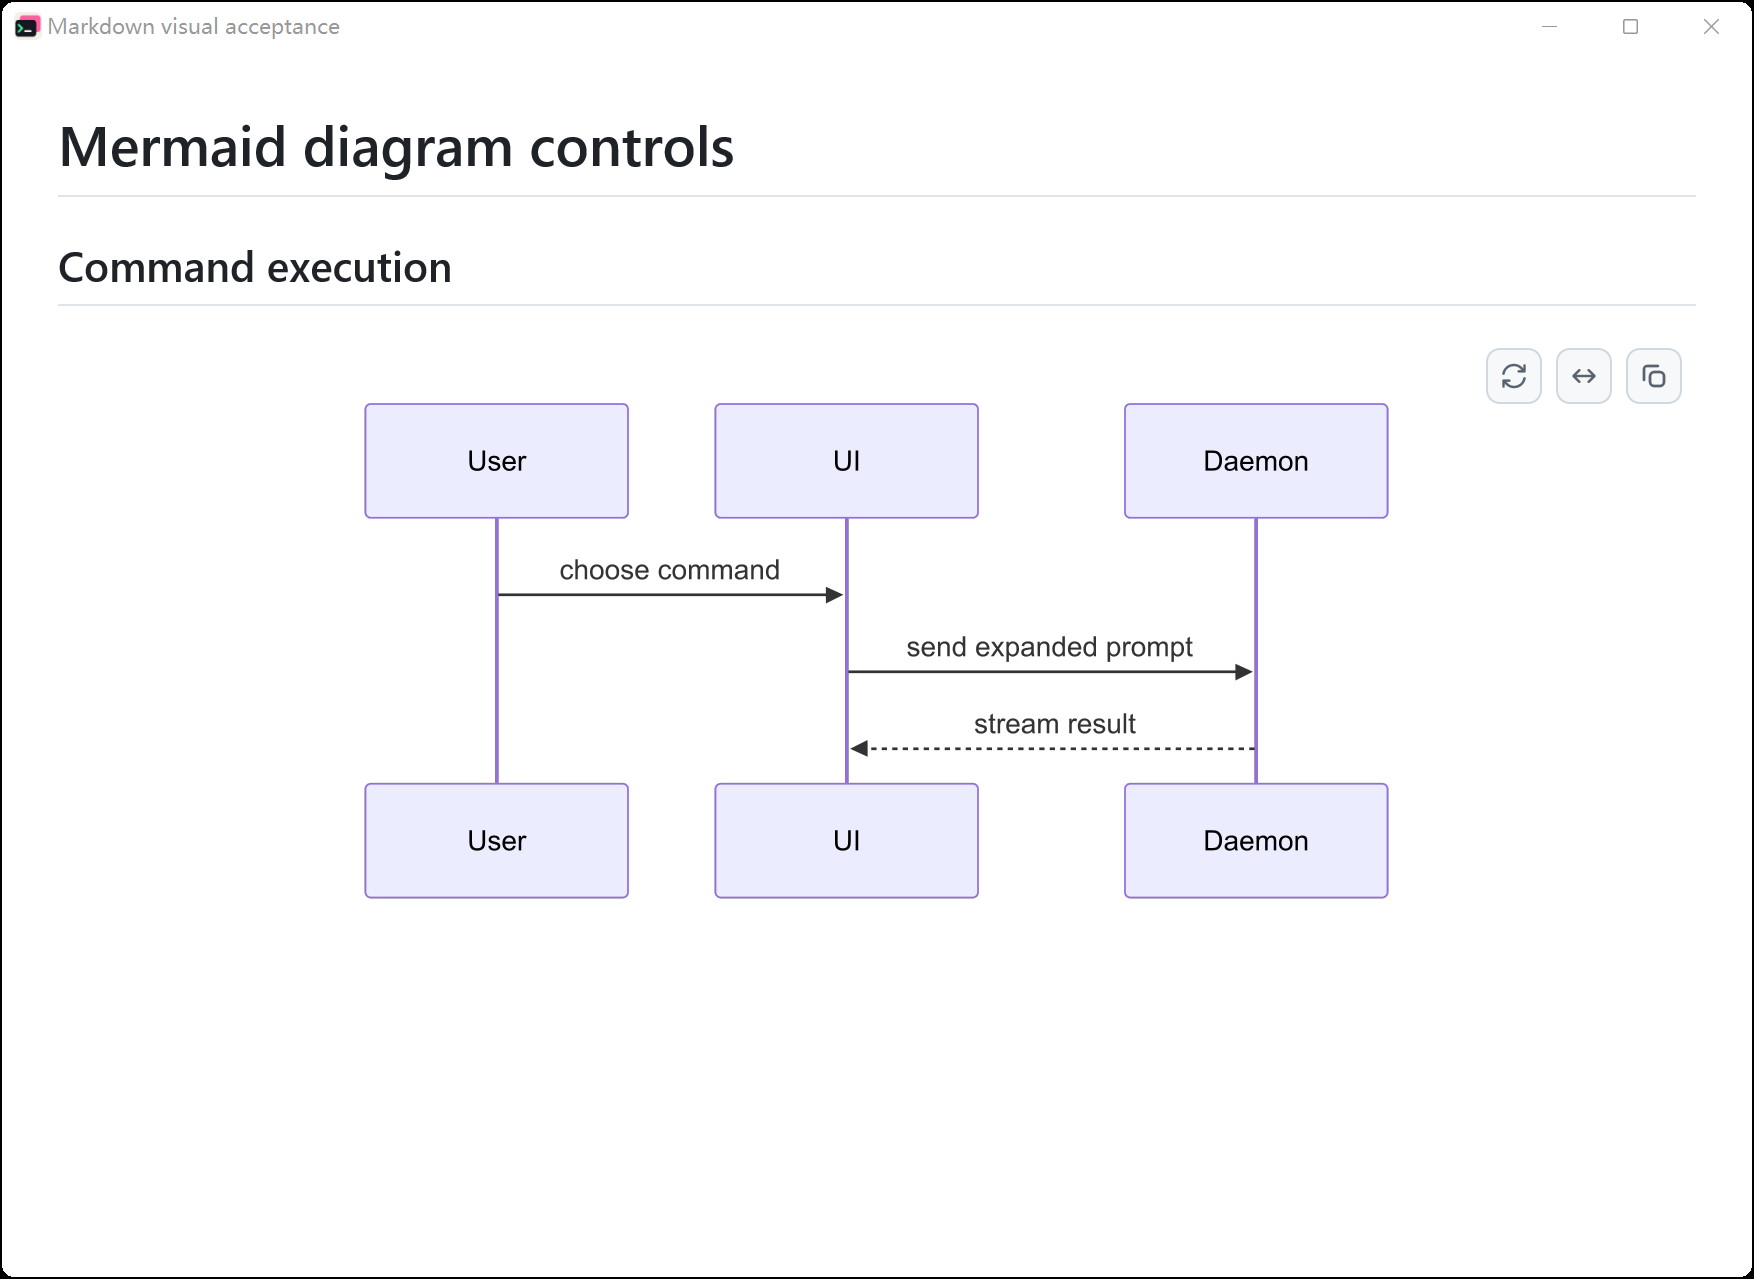
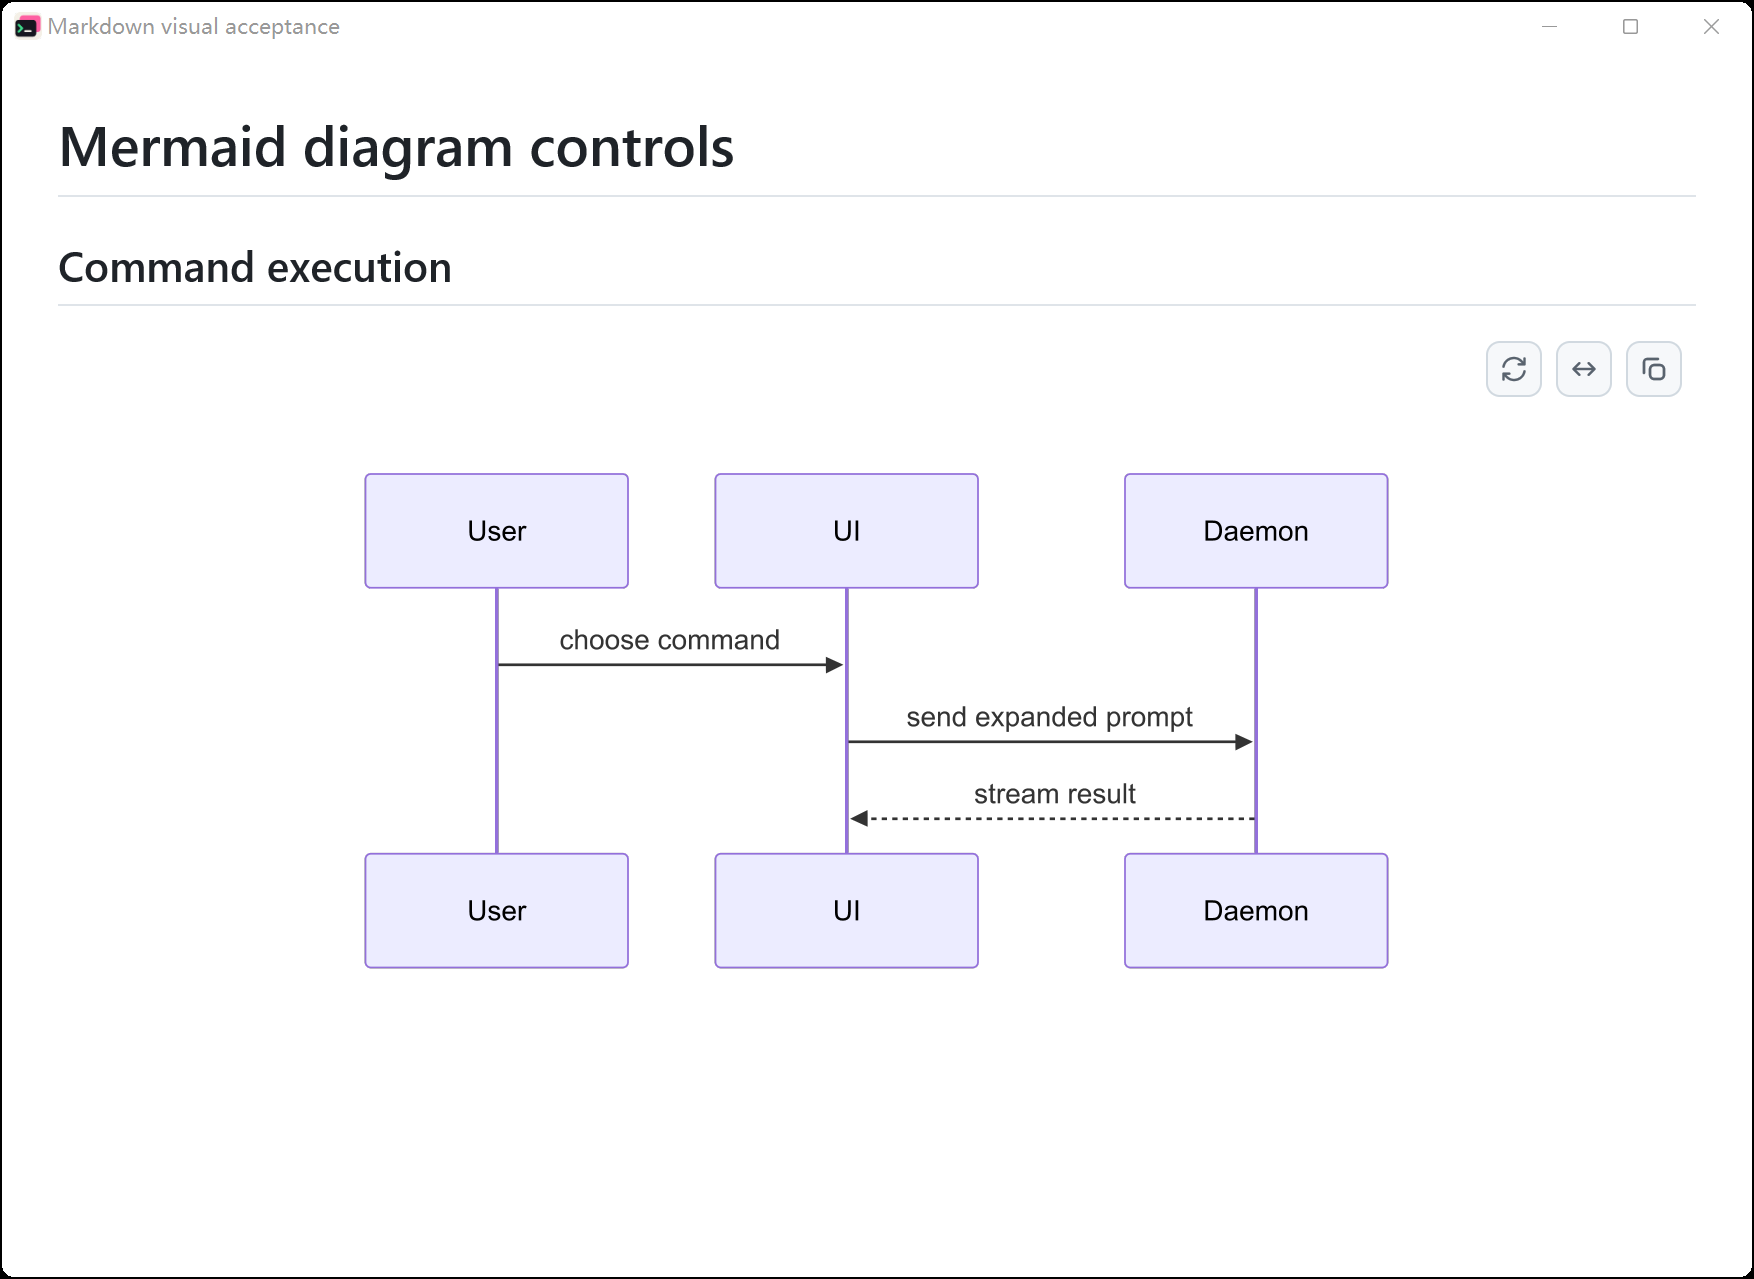
fix(markdown): give the Mermaid toolbar its own row
Review feedback on the floating toolbar: in narrow windows the three
buttons sat over the diagram. The toolbar now lives in a row above the
viewport with the gesture hint at its left, so nothing is drawn over the
image. The expanded dialog hands that row's height to the toolbar, and
the viewer tests assert that the toolbar sits above the diagram without
intersecting it. After captures are re-rendered for the new layout.

diff --git a/src/ui/markdown_mermaid.rs b/src/ui/markdown_mermaid.rs
@@ -419,21 +419,27 @@ impl Render for DiagramViewer {
             available
         };
         self.image_width = image_width;
+        // The toolbar and the gesture hint share one row above the diagram so
+        // that nothing is drawn over the image. Narrow viewers shrink the
+        // buttons so the three of them still fit beside the hint.
+        let controls_scale = scale.min(width / px(144.));
+        let toolbar_height = px(40. * controls_scale);
+        let compact_size = (controls_scale < scale).then_some(px(32. * controls_scale));
         self.height = if self.expanded {
             // The dialog starts 10% down the window and adds 32px padding,
-            // two border pixels, a one-rem title and a half-rem gap. Keep
-            // another 16px below it so the scrollbar and controls stay visible.
-            let max_height =
-                (window.viewport_size().height * 0.9 - px(50.) - window.rem_size() * 1.5)
-                    .min(window.viewport_size().height * 0.75)
-                    .max(px(1.));
+            // two border pixels, a one-rem title and a half-rem gap, then the
+            // toolbar row. Keep another 16px below it so the scrollbar stays
+            // visible.
+            let max_height = (window.viewport_size().height * 0.9
+                - px(50.)
+                - window.rem_size() * 1.5
+                - toolbar_height)
+                .min(window.viewport_size().height * 0.75 - toolbar_height)
+                .max(px(1.));
             (image_width / self.aspect).clamp(px(200. * scale).min(max_height), max_height)
         } else {
             (image_width / self.aspect).max(px(200. * scale))
         };
-        // Three buttons share one row, including in short or narrow viewers.
-        let controls_scale = scale.min(self.height / px(48.)).min(width / px(144.));
-        let compact_size = (controls_scale < scale).then_some(px(32. * controls_scale));
         let reset = Self::control(
             "diagram-reset",
             Icon::default().path("icons/diagram-reset.svg"),
@@ -579,9 +585,8 @@ impl Render for DiagramViewer {
         } else {
             content.into_any_element()
         };
-        div()
+        let viewport = div()
             .id("diagram-viewport")
-            .group("diagram-viewport")
             .debug_selector(|| "diagram-viewport".into())
             .relative()
             .track_focus(&focus)
@@ -658,56 +663,6 @@ impl Render for DiagramViewer {
                 )
             })
             .child(
-                div()
-                    .id("diagram-toolbar")
-                    .debug_selector(|| "diagram-toolbar".into())
-                    .absolute()
-                    .top(px(8. * controls_scale))
-                    .right(px(if expanded { 24. } else { 8. } * controls_scale))
-                    .on_mouse_down(MouseButton::Left, |_, _, cx| cx.stop_propagation())
-                    .child(toolbar),
-            )
-            .when(self.drag.is_none(), |el| {
-                let theme = super::markdown_preview::current(cx).theme;
-                let palette = theme.palette(cx.theme().mode.is_dark());
-                let background = if theme.id == crate::core::markdown_theme::DEFAULT_ID {
-                    cx.theme().tokens.background.into()
-                } else {
-                    super::markdown_preview::color(palette.background)
-                };
-                let label = if expanded {
-                    L10nKey::MarkdownDiagramExpandedHint
-                } else if cfg!(target_os = "macos") {
-                    L10nKey::MarkdownDiagramInlineMacHint
-                } else {
-                    L10nKey::MarkdownDiagramInlineHint
-                };
-                el.child(
-                    div()
-                        .id("diagram-gesture-hint")
-                        .debug_selector(|| "diagram-gesture-hint".into())
-                        .absolute()
-                        .bottom(px(if expanded && self.scroll_limit().x > px(0.) {
-                            24.
-                        } else {
-                            8.
-                        } * controls_scale))
-                        .left(px(8. * controls_scale))
-                        .max_w((width - px(32. * controls_scale)).max(px(0.)))
-                        .px(px(6. * controls_scale))
-                        .py(px(4. * controls_scale))
-                        .rounded(px(4. * controls_scale))
-                        .bg(background)
-                        .text_color(super::markdown_preview::color(palette.muted))
-                        .text_size(px(12. * controls_scale))
-                        .truncate()
-                        .invisible()
-                        .when(focus.contains_focused(window, cx), |hint| hint.visible())
-                        .group_hover("diagram-viewport", |style| style.visible())
-                        .child(t(label)),
-                )
-            })
-            .child(
                 canvas(
                     move |bounds, _, cx| {
                         let _ = owner.update(cx, |this, cx| {
@@ -737,7 +692,60 @@ impl Render for DiagramViewer {
                 .top_0()
                 .left_0()
                 .size_full(),
+            );
+        let theme = super::markdown_preview::current(cx).theme;
+        let palette = theme.palette(cx.theme().mode.is_dark());
+        let label = if expanded {
+            L10nKey::MarkdownDiagramExpandedHint
+        } else if cfg!(target_os = "macos") {
+            L10nKey::MarkdownDiagramInlineMacHint
+        } else {
+            L10nKey::MarkdownDiagramInlineHint
+        };
+        // The hint is removed while dragging so the row stays quiet during
+        // movement; otherwise it appears while the block is hovered or the
+        // diagram has keyboard focus.
+        let hint = div().flex_1().min_w_0().when(self.drag.is_none(), |el| {
+            el.child(
+                div()
+                    .id("diagram-gesture-hint")
+                    .debug_selector(|| "diagram-gesture-hint".into())
+                    .w_full()
+                    .text_color(super::markdown_preview::color(palette.muted))
+                    .text_size(px(12. * controls_scale))
+                    .truncate()
+                    .invisible()
+                    .when(focus.contains_focused(window, cx), |hint| hint.visible())
+                    .group_hover("diagram-viewport", |style| style.visible())
+                    .child(t(label)),
             )
+        });
+        div()
+            .id("diagram-block")
+            .debug_selector(|| "diagram-block".into())
+            .group("diagram-viewport")
+            .flex()
+            .flex_col()
+            .w_full()
+            .child(
+                div()
+                    .flex()
+                    .items_center()
+                    .justify_between()
+                    .gap(px(8. * controls_scale))
+                    .w_full()
+                    .h(toolbar_height)
+                    .px(px(8. * controls_scale))
+                    .child(hint)
+                    .child(
+                        div()
+                            .id("diagram-toolbar")
+                            .debug_selector(|| "diagram-toolbar".into())
+                            .flex_none()
+                            .child(toolbar),
+                    ),
+            )
+            .child(viewport)
     }
 }
 
@@ -1146,11 +1154,11 @@ mod tests {
             "the toolbar must remain visible in a short window"
         );
         assert!(
-            vcx.debug_bounds("diagram-toolbar").unwrap().top()
-                >= vcx.debug_bounds("diagram-viewport").unwrap().top()
+            vcx.debug_bounds("diagram-toolbar").unwrap().bottom()
+                <= vcx.debug_bounds("diagram-viewport").unwrap().top()
                 && vcx.debug_bounds("diagram-toolbar").unwrap().right()
                     <= vcx.debug_bounds("diagram-viewport").unwrap().right(),
-            "all three toolbar buttons must fit inside the short viewer"
+            "the toolbar row must sit above the short viewer, not over it"
         );
         assert!(
             vcx.debug_bounds("diagram-viewport").unwrap().size.width <= px(400.),

diff --git a/src/ui/markdown_preview.rs b/src/ui/markdown_preview.rs
@@ -3097,11 +3097,20 @@ mod tests {
         assert_eq!(reset.top(), expand.top());
         assert_eq!(reset.top(), copy.top());
         assert!(reset.right() <= expand.left() && expand.right() <= copy.left());
-        assert!(reset.top() >= viewport.top() && copy.right() <= viewport.right());
+        assert!(
+            reset.bottom() <= viewport.top() && copy.right() <= viewport.right(),
+            "the toolbar must sit above the diagram, not over it"
+        );
         let fit = vcx.debug_bounds("diagram-content").unwrap();
         assert!(
             (fit.size.width - (viewport.size.width - px(32.))).abs() <= px(1.),
             "wide diagrams must reclaim the old navigation reservation"
+        );
+        assert!(
+            !vcx.debug_bounds("diagram-toolbar")
+                .unwrap()
+                .intersects(&fit),
+            "the toolbar must not overlap the diagram"
         );
         let drag_start = viewport.center();
         let scroll_before_zoom = preview.read_with(&vcx, |preview, _| preview.scroll.offset());

diff --git a/docs/testing/mermaid-controls-simplification.md b/docs/testing/mermaid-controls-simplification.md
@@ -18,32 +18,37 @@ of the client area, so nothing is hovered. The expanded view is opened by
 posting one left click to the centre of the client area; opening the dialog
 focuses its viewport.
 
+The first revision floated the three buttons over the upper-right corner of the
+image, which overlapped wide diagrams in narrow windows. The toolbar now has
+its own row above the diagram, with the gesture hint at the left of that row,
+so nothing is drawn over the image.
+
 ## Native captures
 
 | View | Before | After | Inspect |
 | --- | --- | --- | --- |
-| Inline, light | ![Before inline light](images/mermaid-controls-simplification/before-inline-light.png) | ![After inline light](images/mermaid-controls-simplification/after-inline-light.png) | The lower-right navigation pad is gone. Reset, Expand and Copy share one upper-right toolbar and the diagram keeps its width. |
-| Expanded, light | ![Before expanded light](images/mermaid-controls-simplification/before-expanded-light.png) | ![After expanded light](images/mermaid-controls-simplification/after-expanded-light.png) | The dialog toolbar is Reset, Fit whole diagram and Copy. The focused dialog shows "Drag to move · Wheel to zoom" below the diagram. |
-| Narrow, light | ![Before narrow light](images/mermaid-controls-simplification/before-narrow-light.png) | ![After narrow light](images/mermaid-controls-simplification/after-narrow-light.png) | At 700 px the three buttons fit inside the reading column. |
-| Inline, dark | ![Before inline dark](images/mermaid-controls-simplification/before-inline-dark.png) | ![After inline dark](images/mermaid-controls-simplification/after-inline-dark.png) | The toolbar uses the dark reading palette. |
-| Expanded, dark | ![Before expanded dark](images/mermaid-controls-simplification/before-expanded-dark.png) | ![After expanded dark](images/mermaid-controls-simplification/after-expanded-dark.png) | The dialog toolbar and hint stay legible on the dark background. |
-| Narrow, dark | ![Before narrow dark](images/mermaid-controls-simplification/before-narrow-dark.png) | ![After narrow dark](images/mermaid-controls-simplification/after-narrow-dark.png) | The narrow dark layout stays inside the window. |
+| Inline, light | ![Before inline light](images/mermaid-controls-simplification/before-inline-light.png) | ![After inline light](images/mermaid-controls-simplification/after-inline-light.png) | The lower-right navigation pad is gone. Reset, Expand and Copy sit at the right of a toolbar row above the diagram; nothing is drawn over the image and the diagram keeps its width. |
+| Expanded, light | ![Before expanded light](images/mermaid-controls-simplification/before-expanded-light.png) | ![After expanded light](images/mermaid-controls-simplification/after-expanded-light.png) | The dialog's toolbar row holds Reset, Fit whole diagram and Copy above the diagram; the focused dialog shows "Drag to move · Wheel to zoom" at the left of that row. |
+| Narrow, light | ![Before narrow light](images/mermaid-controls-simplification/before-narrow-light.png) | ![After narrow light](images/mermaid-controls-simplification/after-narrow-light.png) | At 700 px the toolbar row still sits above the diagram instead of over it. |
+| Inline, dark | ![Before inline dark](images/mermaid-controls-simplification/before-inline-dark.png) | ![After inline dark](images/mermaid-controls-simplification/after-inline-dark.png) | The toolbar row uses the dark reading palette. |
+| Expanded, dark | ![Before expanded dark](images/mermaid-controls-simplification/before-expanded-dark.png) | ![After expanded dark](images/mermaid-controls-simplification/after-expanded-dark.png) | The dialog toolbar row and hint stay legible on the dark background. |
+| Narrow, dark | ![Before narrow dark](images/mermaid-controls-simplification/before-narrow-dark.png) | ![After narrow dark](images/mermaid-controls-simplification/after-narrow-dark.png) | The narrow dark layout keeps the toolbar clear of the diagram. |
 
 Before shows nine controls across two corners: Expand and Copy at the top,
 four direction buttons, two zoom buttons and Reset at the bottom. After shows
-three controls in one upper-right toolbar.
+three controls in one toolbar row above the diagram.
 
 The gesture hint appears while the diagram is hovered or keyboard-focused and
 hides while dragging. With the pointer moved to the centre of the inline
 diagram instead (`-Hover`), the same After build shows
-"Drag to move · Ctrl+wheel to zoom":
+"Drag to move · Ctrl+wheel to zoom" at the left of the toolbar row:
 
 ![After inline light, hovered](images/mermaid-controls-simplification/after-inline-light-hover.png)
 
 ## Checks
 
 - `cargo build --locked --features markdown-visual-tests --bin tty7-app` succeeds.
-- `cargo test --locked --bin tty7-app --features markdown-visual-tests mermaid`: 19 passed, 0 failed.
+- `cargo test --locked --bin tty7-app --features markdown-visual-tests mermaid`: 19 passed, 0 failed. The inline test now also asserts that the toolbar does not intersect the diagram.
 - `cargo fmt --check`, `bash .github/scripts/check-host-boundary.sh` and `git diff --check` pass.
 
 ## Known limitations

diff --git a/docs/mermaid-support.md b/docs/mermaid-support.md
@@ -18,8 +18,9 @@ zoom and preserve their full aspect ratio and height; a tall diagram stays at
 its reading width instead of shrinking to a height limit. Ordinary wheel input
 continues scrolling the document, including after inline diagram zoom.
 Click the canvas or Expand to open a larger viewer. A tall diagram opens at the
-top with readable nodes and a visible vertical scrollbar. The top-right toolbar
-contains Reset, Expand and Copy; the expanded viewer replaces Expand with
+top with readable nodes and a visible vertical scrollbar. A toolbar row above
+the diagram holds Reset, Expand and Copy at its right edge, so no control is
+drawn over the image; the expanded viewer replaces Expand with
 **Fit whole diagram**. Copy preserves the original Mermaid source.
 
 In the expanded viewer, ordinary wheel input zooms around the pointer.
@@ -30,9 +31,10 @@ content. **Fit whole diagram** (`F`) shows the complete diagram, including very
 tall diagrams below the normal 25% zoom limit. Reset restores its initial reading
 size and position. Inline diagrams use Ctrl+wheel (Command+wheel on macOS) to
 zoom, leaving ordinary wheel input available for document scrolling at every
-diagram zoom level. A gesture hint appears on hover or keyboard focus and hides
-while dragging. Zoom and directional buttons are omitted; mouse gestures and
-keyboard navigation provide these operations without a separate navigation pad.
+diagram zoom level. A gesture hint appears at the left of the toolbar row on
+hover or keyboard focus and hides while dragging. Zoom and directional buttons
+are omitted; mouse gestures and keyboard navigation provide these operations
+without a separate navigation pad.
 
 SVG rasters follow display DPI, reading scale and diagram zoom. Each viewer
 retains one raster of at most 16,777,216 RGBA pixels (64 MiB), with neither axis
@@ -186,8 +188,9 @@ listed in [project status](maintenance/status.md).
 
 ## Viewer controls
 
-The upper-right toolbar contains Reset, Expand (or Fit whole diagram), and Copy.
-Drag to move the diagram. Inline diagrams zoom with Ctrl+wheel or Command+wheel;
-the expanded viewer also zooms with the ordinary wheel. Keyboard shortcuts and
-scrollbars remain available in the expanded viewer. A contextual hint appears
-when the diagram is hovered or focused.
+A toolbar row above the diagram holds Reset, Expand (or Fit whole diagram) and
+Copy at its right edge; nothing is drawn over the image. Drag to move the
+diagram. Inline diagrams zoom with Ctrl+wheel or Command+wheel; the expanded
+viewer also zooms with the ordinary wheel. Keyboard shortcuts and scrollbars
+remain available in the expanded viewer. A contextual hint appears at the left
+of the toolbar row when the diagram is hovered or focused.
